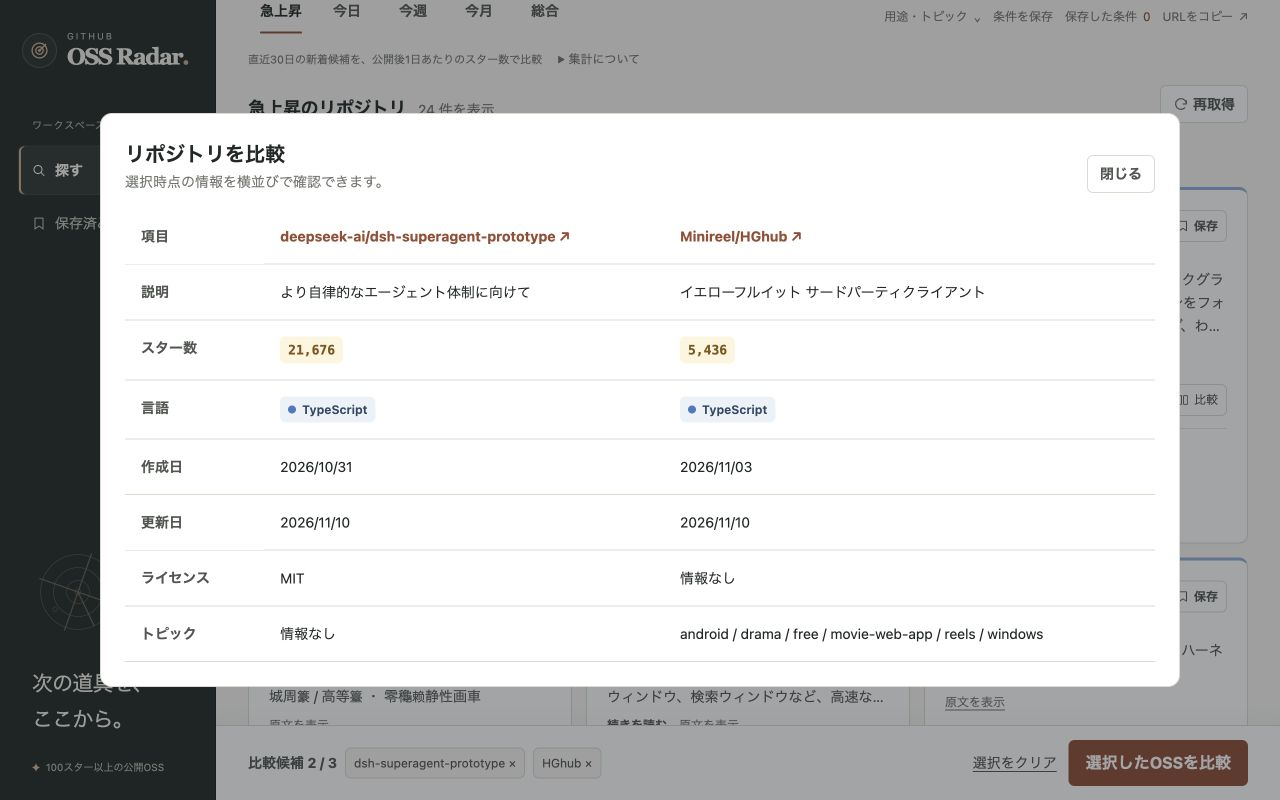
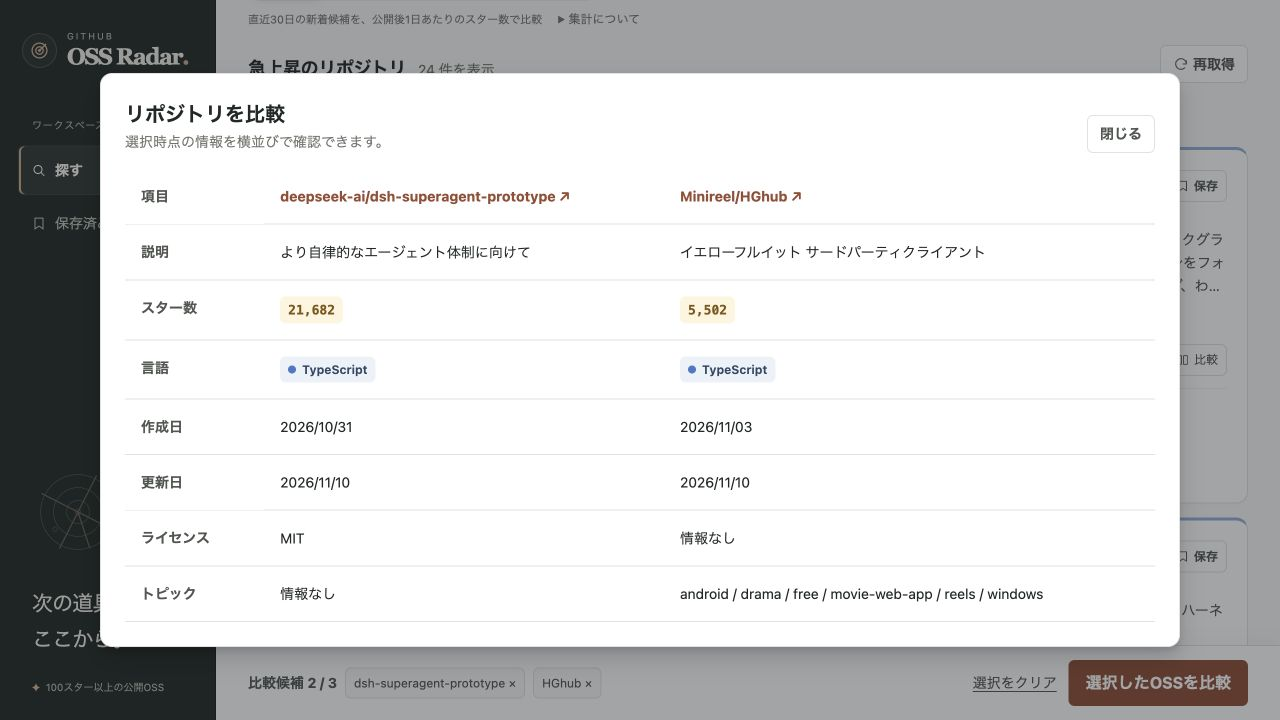
docs: document Astryx integration and refresh UI previews

diff --git a/README.md b/README.md
@@ -36,7 +36,7 @@
 - **検索画面を共有する。** ランキング・キーワード・言語・トピックをURLに含めて共有。メモやタグは共有URLに含みません。
 - **似た候補へ進む。** カードから共通トピック・同じ言語の候補を探し、元の一覧の閲覧位置へ戻れます。
 - **閲覧を続けやすく。** GitHubは別タブで開きます。カードは画面幅に応じて3列・2列・1列に切り替わります。
-- **操作に動きで応える。** カードの順次表示、ランキング下線の移動、保存時の反応を用意。OSの動きを減らす設定にも対応します。
+- **操作に動きで応える。** Astryxのモーション基盤を採用。カードが順に浮かび上がり、ランキングの選択面が移動し、比較欄は下からせり上がります。OSの動きを減らす設定にも対応します。
 
 ## 画面を見てみる
 
@@ -152,3 +152,5 @@ flowchart LR
 機能単位のブランチで、**Red → Green → Refactor**の順に実装します。VitestではAPI通信をモックし、日付の境界、ランキング、比較上限、URL復元、ストレージの破損・書き込み失敗を検証します。
 
 デザインの方針と参考サイトは[`DESIGN.md`](./DESIGN.md)に記録しています。Open DesignのWarm Editorialから取り込んだトークンのライセンスは[`public/licenses/open-design.txt`](./public/licenses/open-design.txt)に含めています。
+
+[MetaのAstryx](https://github.com/meta/astryx)の時間尺度の生成関数・expressive曲線・Neutralテーマの角丸と影をVueのUIに利用しています。取り込み内容は[`src/astryx/NOTICE.md`](./src/astryx/NOTICE.md)、MITライセンスは[`public/licenses/astryx.txt`](./public/licenses/astryx.txt)を参照してください。
